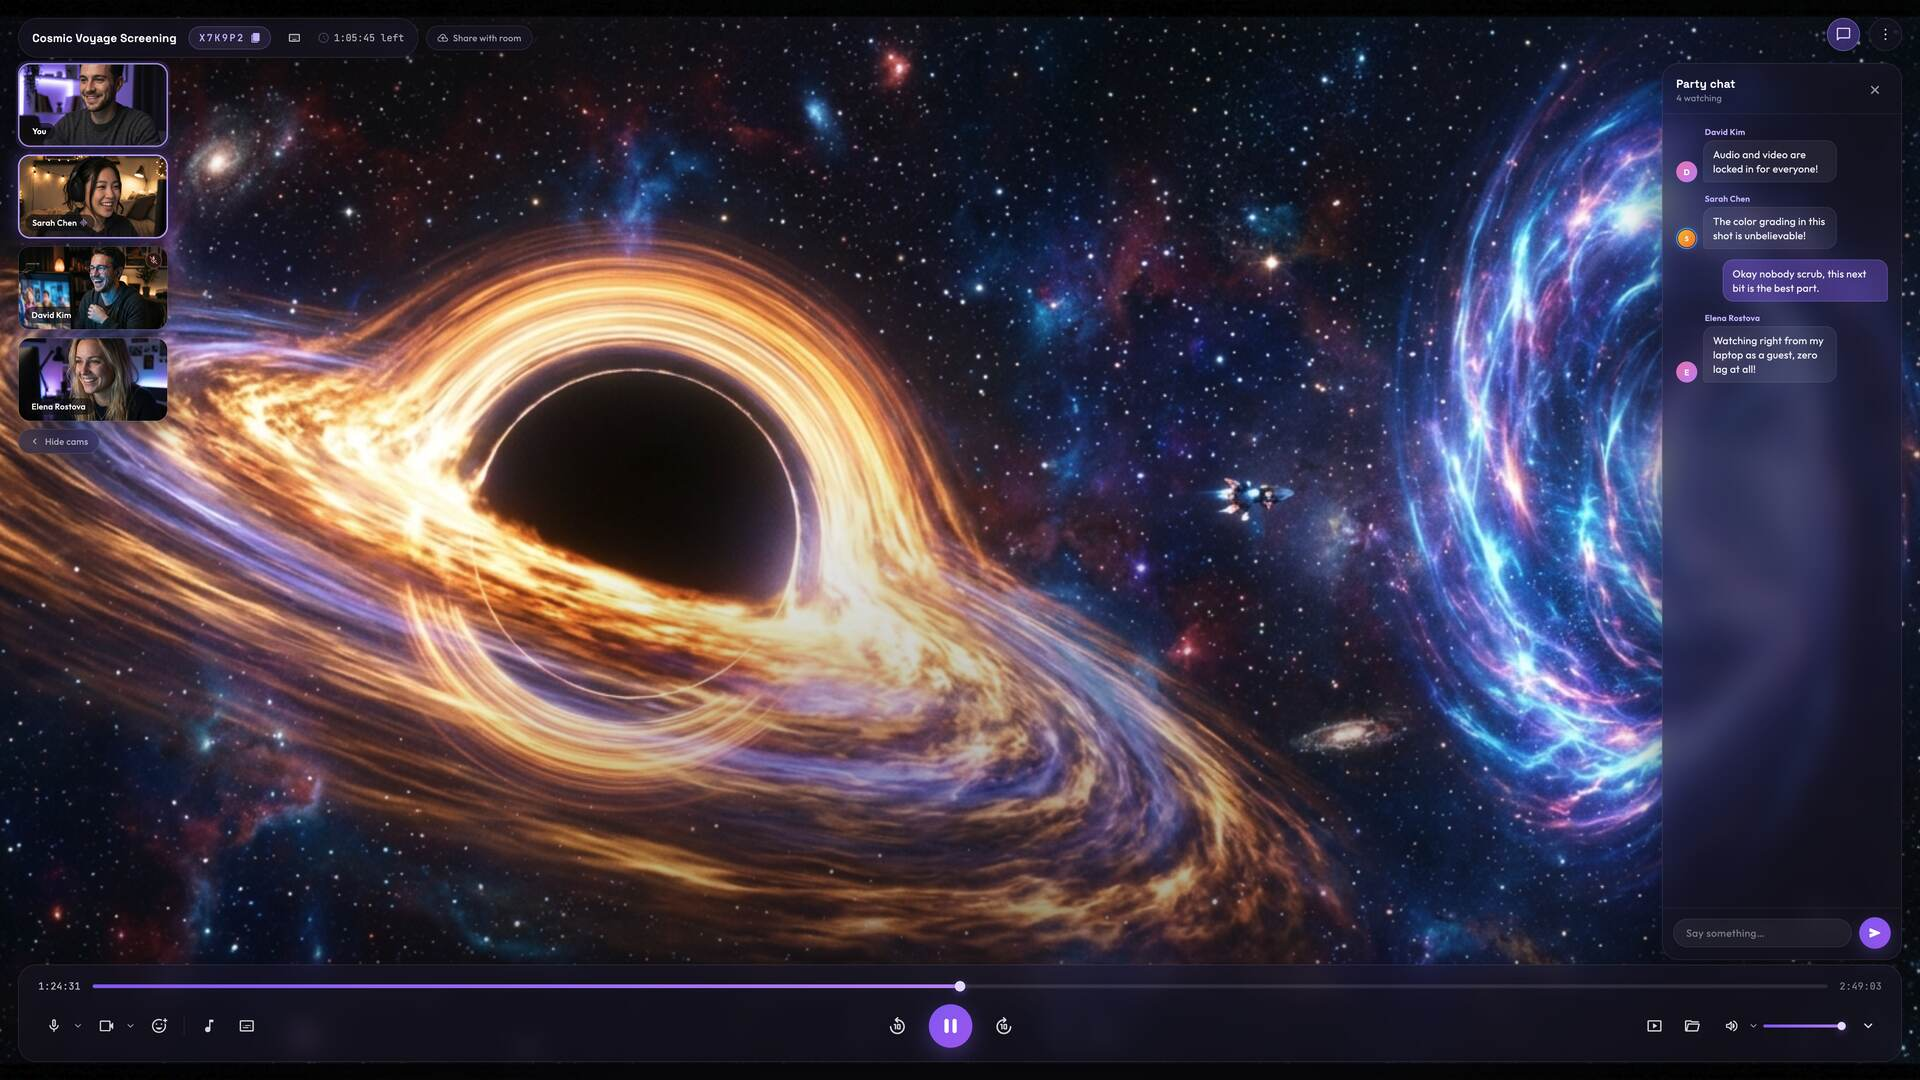
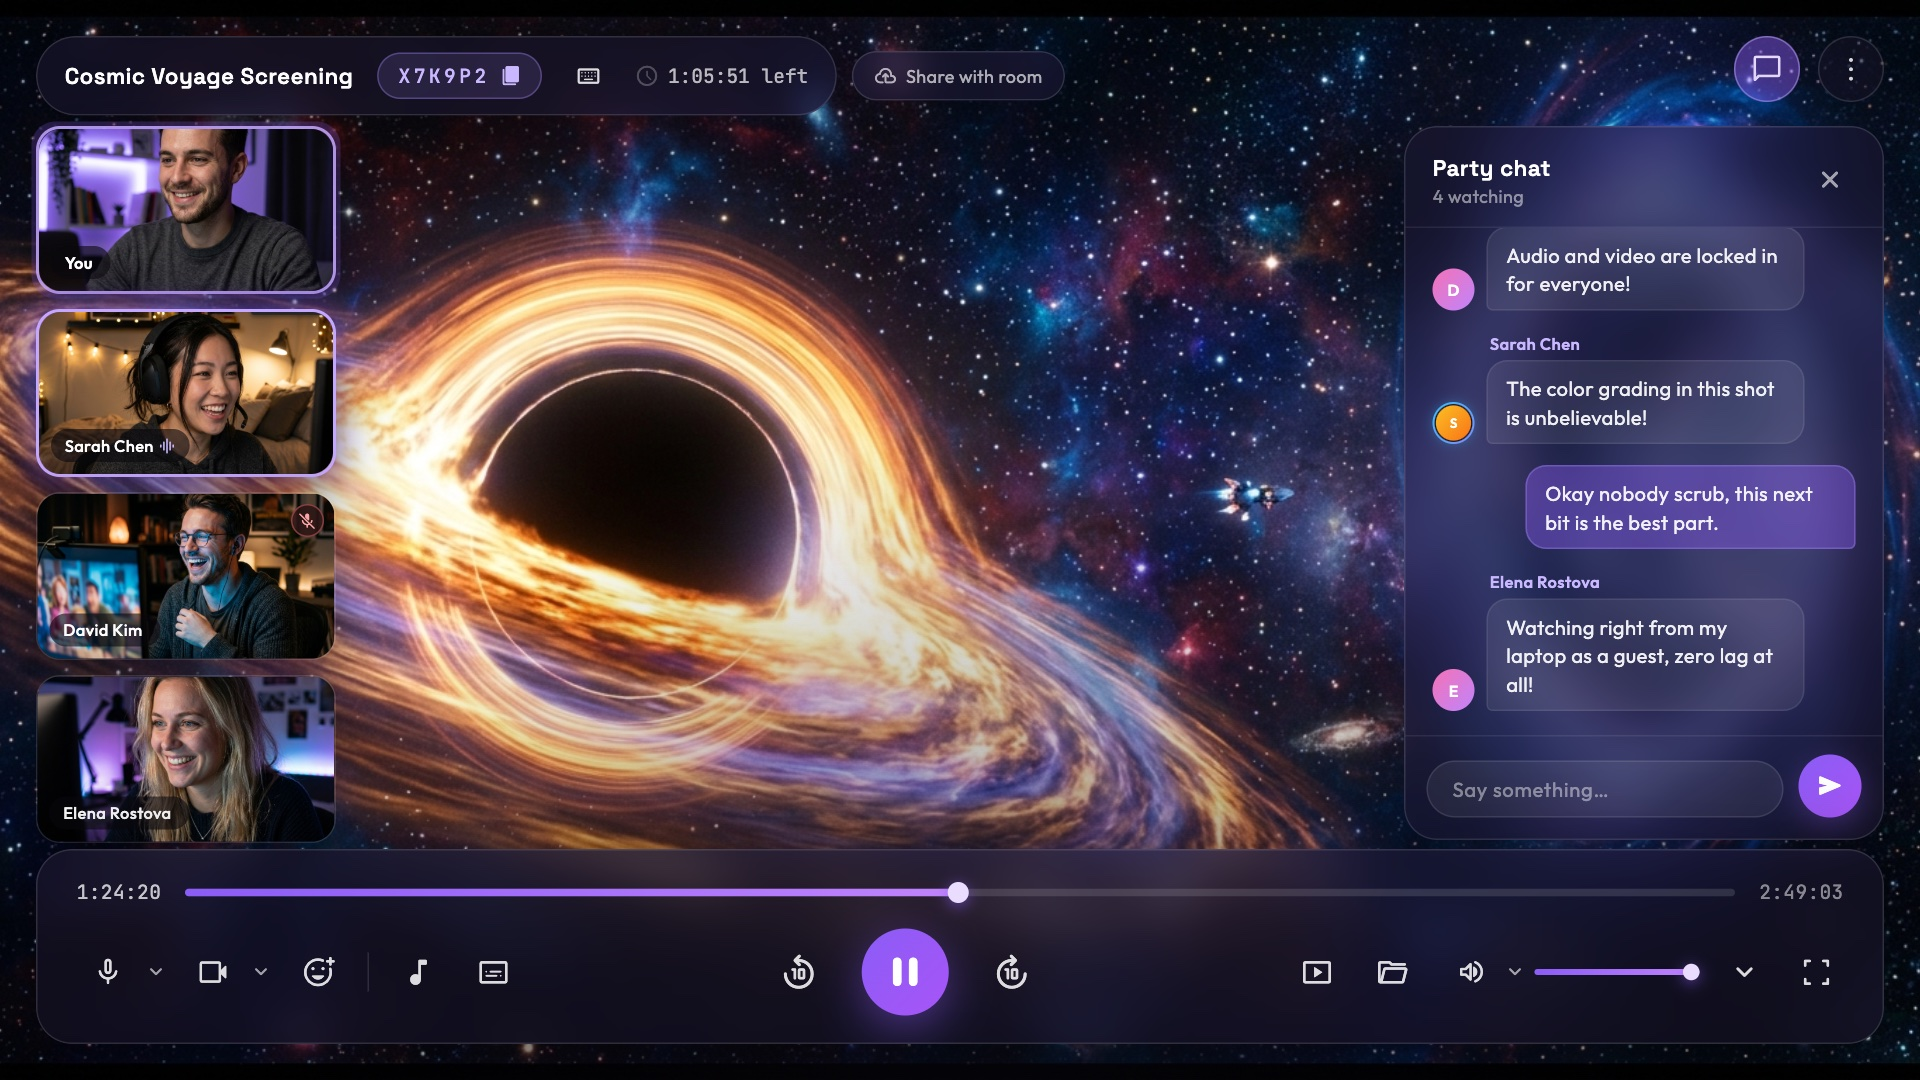
chore(shots): retake product and store screenshots at 1280x720 @ 1.5x
The captures laid out at 1920 logical and saved at 1x, so the UI read tiny
in every shot. Laying out at 1280x720 and rendering at 1.5x keeps the
1920x1080 output but shows the chrome at normal-window size.

- website product shot now shows the chat panel; headline follows
- ?dialog=media opens the chooser even though the demo room has a film
- demo mode no longer shows the amber '· local' version tag

diff --git a/lib/mock/store_capture.dart b/lib/mock/store_capture.dart
@@ -34,45 +34,63 @@ Future<void> captureBoundaryToFile(String path, {double pixelRatio = 1.0}) async
   print('[STORE CAPTURE SUCCESS] Wrote $path (${file.lengthSync()} bytes)');
 }
 
+// Laid out at 1280x720 and rendered at 1.5x: the files are still a crisp
+// 1920x1080, but the chrome reads at the size it has in a normal window - a
+// 1920-logical layout made every control tiny.
+const _kCaptureLogical = Size(1280, 720);
+const _kCaptureRatio = 1.5;
+
+/// Sizes the window so the *content* is exactly [logical]. setSize is the
+/// frame, title bar included, so grow by whatever the content came up short.
+Future<void> _sizeContentTo(Size logical) async {
+  if (!isDesktop) return;
+  try {
+    await windowManager.ensureInitialized();
+    await windowManager.setSize(logical);
+    await Future.delayed(const Duration(milliseconds: 300));
+    final box = storeCaptureBoundaryKey.currentContext?.size;
+    if (box != null && box != logical) {
+      await windowManager.setSize(
+        Size(logical.width * 2 - box.width, logical.height * 2 - box.height),
+      );
+    }
+    await windowManager.center();
+  } catch (_) {}
+}
+
 Future<void> runStoreCaptureFlow(BuildContext context, GoRouter router) async {
   // ignore: avoid_print
   print('[STORE CAPTURE] Starting automated store capture flow...');
 
-  if (isDesktop) {
-    try {
-      await windowManager.ensureInitialized();
-      await windowManager.setSize(const Size(1920, 1080));
-      await windowManager.center();
-    } catch (_) {}
-  }
+  await _sizeContentTo(_kCaptureLogical);
 
   // 1. Capture Lobby Screen
   // ignore: avoid_print
   print('[STORE CAPTURE] Step 1: Capturing Lobby Screen...');
   router.go('/lobby');
   await Future.delayed(const Duration(milliseconds: 2500));
-  await captureBoundaryToFile('assets/store/1_violet_glass_lobby.png');
+  await captureBoundaryToFile('assets/store/1_violet_glass_lobby.png', pixelRatio: _kCaptureRatio);
 
   // 2. Capture Room Theater View
   // ignore: avoid_print
   print('[STORE CAPTURE] Step 2: Capturing Room Theater View...');
   router.go('/lobby/room/demo-room-1');
   await Future.delayed(const Duration(milliseconds: 3000));
-  await captureBoundaryToFile('assets/store/2_theater_room.png');
+  await captureBoundaryToFile('assets/store/2_theater_room.png', pixelRatio: _kCaptureRatio);
 
   // 3. Capture Room with Live Chat Panel
   // ignore: avoid_print
   print('[STORE CAPTURE] Step 3: Capturing Room with Live Chat...');
   router.go('/lobby/room/demo-room-1?chat=true');
   await Future.delayed(const Duration(milliseconds: 2500));
-  await captureBoundaryToFile('assets/store/3_room_chat.png');
+  await captureBoundaryToFile('assets/store/3_room_chat.png', pixelRatio: _kCaptureRatio);
 
   // 4. Capture Media Source Chooser Dialog
   // ignore: avoid_print
   print('[STORE CAPTURE] Step 4: Capturing Media Chooser Dialog...');
   router.go('/lobby/room/demo-room-1?dialog=media');
   await Future.delayed(const Duration(milliseconds: 2500));
-  await captureBoundaryToFile('assets/store/4_media_chooser.png');
+  await captureBoundaryToFile('assets/store/4_media_chooser.png', pixelRatio: _kCaptureRatio);
 
   // 5. Subscription purchase screen - the App Review screenshot each App
   // Store subscription needs. Only meaningful with STORE_BUILD=true, which is
@@ -110,5 +128,16 @@ Future<void> runStoreCaptureFlow(BuildContext context, GoRouter router) async {
 
   // ignore: avoid_print
   print('[STORE CAPTURE] Complete! All store screenshots generated in assets/store/');
+  exit(0);
+}
+
+/// The homepage product shot, at the same 1280x720 @ 1.5x as the store shots.
+Future<void> runWebsiteCaptureFlow(GoRouter router) async {
+  await _sizeContentTo(_kCaptureLogical);
+  router.go('/lobby/room/demo-room-1?chat=true');
+  await Future.delayed(const Duration(milliseconds: 4000));
+  // ignore: avoid_print
+  print('[WEBSITE CAPTURE] boundary ${storeCaptureBoundaryKey.currentContext?.size}');
+  await captureBoundaryToFile('website/public/shots/room-theater.png', pixelRatio: _kCaptureRatio);
   exit(0);
 }

diff --git a/lib/rooms/lobby_screen.dart b/lib/rooms/lobby_screen.dart
@@ -1839,10 +1839,13 @@ class _Wordmark extends StatelessWidget {
                 children: [
                   if (AppVersion.label case final version?) ...[
                     TextSpan(
-                      text: Env.usingLocalStack ? '$version · local' : version,
+                      // Demo mode is mocked end to end, so the local stack is
+                      // not what it is exercising - and it is what shoots
+                      // the marketing screenshots.
+                      text: _flagLocal ? '$version · local' : version,
                       style: PTText.mono.copyWith(
                         fontSize: compact ? 10 : 11,
-                        color: Env.usingLocalStack ? PTColors.warning : PTColors.white(0.4),
+                        color: _flagLocal ? PTColors.warning : PTColors.white(0.4),
                       ),
                     ),
                     const TextSpan(text: '  ·  '),
@@ -1858,3 +1861,5 @@ class _Wordmark extends StatelessWidget {
     );
   }
 }
+
+bool get _flagLocal => Env.usingLocalStack && !kDemoMode;

diff --git a/website/components/ProductShot.tsx b/website/components/ProductShot.tsx
@@ -13,7 +13,7 @@ export function ProductShot() {
           This is the room
         </p>
         <h2 className="text-3xl sm:text-4xl font-extrabold text-white font-[family-name:var(--font-space-grotesk)]">
-          Everyone on the same frame, faces down the side.
+          Same frame, same room: faces, chat, all of it.
         </h2>
       </div>
 
@@ -23,7 +23,7 @@ export function ProductShot() {
         <div className="relative w-full max-w-[1600px] mx-auto">
           <FadeImage
             src="/shots/room-theater.jpg"
-            alt="A SyncTogether room: a film playing full-screen with four facecam tiles down the left edge, the room code and remaining time along the top, and the shared transport bar across the bottom."
+            alt="A SyncTogether room: a film playing full-screen with four facecam tiles down the left edge, the room code and remaining time along the top, the party chat open on the right, and the shared transport bar across the bottom."
             width={1920}
             height={1080}
             sizes="100vw"

diff --git a/lib/main.dart b/lib/main.dart
@@ -36,6 +36,7 @@ import 'package:supabase_flutter/supabase_flutter.dart';
 import 'package:window_manager/window_manager.dart';
 
 const bool kCaptureStore = bool.fromEnvironment('CAPTURE_STORE', defaultValue: false);
+const bool kCaptureWebsite = bool.fromEnvironment('CAPTURE_WEBSITE', defaultValue: false);
 
 Future<void> main() async {
   WidgetsFlutterBinding.ensureInitialized();
@@ -143,7 +144,9 @@ class _MainAppState extends State<MainApp> with WidgetsBindingObserver {
     _appLinks.getInitialLink().then((uri) {
       if (uri != null) _onDeepLink(uri, source: 'cold_start');
     });
-    if (kCaptureStore) {
+    if (kCaptureWebsite) {
+      WidgetsBinding.instance.addPostFrameCallback((_) => runWebsiteCaptureFlow(router));
+    } else if (kCaptureStore) {
       WidgetsBinding.instance.addPostFrameCallback((_) {
         runStoreCaptureFlow(context, router);
       });

diff --git a/lib/rooms/room_screen.dart b/lib/rooms/room_screen.dart
@@ -923,9 +923,10 @@ class _RoomScreenState extends State<RoomScreen> with WindowListener, TickerProv
     final hasMedia =
         _player.state.duration != Duration.zero || _youtubeUrl != null || _canonicalMedia.isSet;
 
-    if ((isHost || widget.initialDialogOpen == 'media') &&
-        !hasMedia &&
-        !_hasPromptedInitialSource) {
+    // `?dialog=media` is the screenshot hook, so it opens the chooser even
+    // over the demo room's pre-set film.
+    final forceChooser = widget.initialDialogOpen == 'media';
+    if ((forceChooser || (isHost && !hasMedia)) && !_hasPromptedInitialSource) {
       _hasPromptedInitialSource = true;
       // Host in an empty room: prompt immediately rather than making the user
       // stare at "Setting up the room…" for the 4.5s late-joiner sync window.
